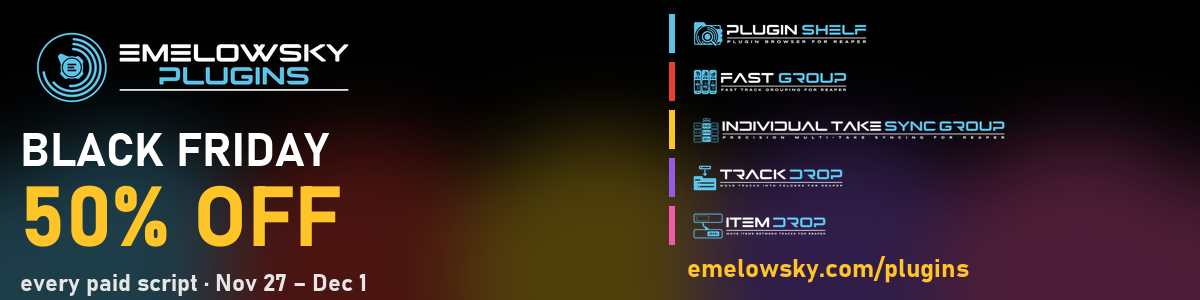
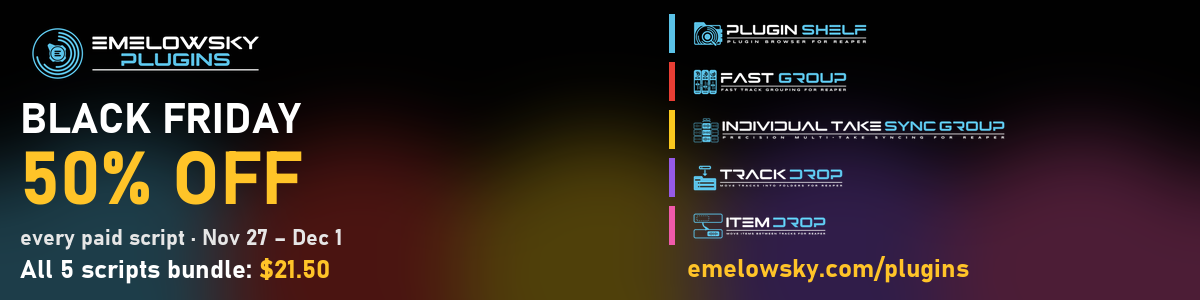
Black Friday: pakiet All Scripts Bundle ($21.50) w pasku promocji i na banerze forum

Changed region(s): [[0.0, 0.09, 0.3083, 0.84], [0.0, 0.87, 0.3083, 0.99]]

diff --git a/404.html b/404.html
@@ -24,6 +24,8 @@
 </div></header>
 <div class="promo" id="promo" data-from="2026-11-27T08:00:00Z" data-to="2026-12-02T08:00:00Z">
 <b>Black Friday:</b> every paid script is 50% off until December 1 – the price is already reduced in the shop.
+All 5 scripts in one bundle: <b>$21.50</b> instead of $54.
+<a href="https://emelowsky.gumroad.com/l/all-scripts-bundle/BLACKFRIDAY50">Get the bundle</a> ·
 <a href="https://emelowsky.gumroad.com">Go to the shop</a></div>
 <script>(function(){var b=document.getElementById("promo"),n=Date.now();
 if(n>=Date.parse(b.dataset.from)&&n<Date.parse(b.dataset.to))b.style.display="block";})();</script>

diff --git a/plugins/fast-group/index.html b/plugins/fast-group/index.html
@@ -26,6 +26,8 @@
 </div></header>
 <div class="promo" id="promo" data-from="2026-11-27T08:00:00Z" data-to="2026-12-02T08:00:00Z">
 <b>Black Friday:</b> every paid script is 50% off until December 1 – the price is already reduced in the shop.
+All 5 scripts in one bundle: <b>$21.50</b> instead of $54.
+<a href="https://emelowsky.gumroad.com/l/all-scripts-bundle/BLACKFRIDAY50">Get the bundle</a> ·
 <a href="https://emelowsky.gumroad.com">Go to the shop</a></div>
 <script>(function(){var b=document.getElementById("promo"),n=Date.now();
 if(n>=Date.parse(b.dataset.from)&&n<Date.parse(b.dataset.to))b.style.display="block";})();</script>

diff --git a/plugins/guides/index.html b/plugins/guides/index.html
@@ -24,6 +24,8 @@
 </div></header>
 <div class="promo" id="promo" data-from="2026-11-27T08:00:00Z" data-to="2026-12-02T08:00:00Z">
 <b>Black Friday:</b> every paid script is 50% off until December 1 – the price is already reduced in the shop.
+All 5 scripts in one bundle: <b>$21.50</b> instead of $54.
+<a href="https://emelowsky.gumroad.com/l/all-scripts-bundle/BLACKFRIDAY50">Get the bundle</a> ·
 <a href="https://emelowsky.gumroad.com">Go to the shop</a></div>
 <script>(function(){var b=document.getElementById("promo"),n=Date.now();
 if(n>=Date.parse(b.dataset.from)&&n<Date.parse(b.dataset.to))b.style.display="block";})();</script>

diff --git a/plugins/guides/reaper-comp-multitrack-drums-switch-takes/index.html b/plugins/guides/reaper-comp-multitrack-drums-switch-takes/index.html
@@ -26,6 +26,8 @@
 </div></header>
 <div class="promo" id="promo" data-from="2026-11-27T08:00:00Z" data-to="2026-12-02T08:00:00Z">
 <b>Black Friday:</b> every paid script is 50% off until December 1 – the price is already reduced in the shop.
+All 5 scripts in one bundle: <b>$21.50</b> instead of $54.
+<a href="https://emelowsky.gumroad.com/l/all-scripts-bundle/BLACKFRIDAY50">Get the bundle</a> ·
 <a href="https://emelowsky.gumroad.com">Go to the shop</a></div>
 <script>(function(){var b=document.getElementById("promo"),n=Date.now();
 if(n>=Date.parse(b.dataset.from)&&n<Date.parse(b.dataset.to))b.style.display="block";})();</script>

diff --git a/plugins/guides/reaper-edit-multitrack-in-sync/index.html b/plugins/guides/reaper-edit-multitrack-in-sync/index.html
@@ -26,6 +26,8 @@
 </div></header>
 <div class="promo" id="promo" data-from="2026-11-27T08:00:00Z" data-to="2026-12-02T08:00:00Z">
 <b>Black Friday:</b> every paid script is 50% off until December 1 – the price is already reduced in the shop.
+All 5 scripts in one bundle: <b>$21.50</b> instead of $54.
+<a href="https://emelowsky.gumroad.com/l/all-scripts-bundle/BLACKFRIDAY50">Get the bundle</a> ·
 <a href="https://emelowsky.gumroad.com">Go to the shop</a></div>
 <script>(function(){var b=document.getElementById("promo"),n=Date.now();
 if(n>=Date.parse(b.dataset.from)&&n<Date.parse(b.dataset.to))b.style.display="block";})();</script>

diff --git a/plugins/guides/reaper-group-tracks-in-one-click/index.html b/plugins/guides/reaper-group-tracks-in-one-click/index.html
@@ -26,6 +26,8 @@
 </div></header>
 <div class="promo" id="promo" data-from="2026-11-27T08:00:00Z" data-to="2026-12-02T08:00:00Z">
 <b>Black Friday:</b> every paid script is 50% off until December 1 – the price is already reduced in the shop.
+All 5 scripts in one bundle: <b>$21.50</b> instead of $54.
+<a href="https://emelowsky.gumroad.com/l/all-scripts-bundle/BLACKFRIDAY50">Get the bundle</a> ·
 <a href="https://emelowsky.gumroad.com">Go to the shop</a></div>
 <script>(function(){var b=document.getElementById("promo"),n=Date.now();
 if(n>=Date.parse(b.dataset.from)&&n<Date.parse(b.dataset.to))b.style.display="block";})();</script>

diff --git a/plugins/guides/reaper-insert-fx-chain-one-click/index.html b/plugins/guides/reaper-insert-fx-chain-one-click/index.html
@@ -26,6 +26,8 @@
 </div></header>
 <div class="promo" id="promo" data-from="2026-11-27T08:00:00Z" data-to="2026-12-02T08:00:00Z">
 <b>Black Friday:</b> every paid script is 50% off until December 1 – the price is already reduced in the shop.
+All 5 scripts in one bundle: <b>$21.50</b> instead of $54.
+<a href="https://emelowsky.gumroad.com/l/all-scripts-bundle/BLACKFRIDAY50">Get the bundle</a> ·
 <a href="https://emelowsky.gumroad.com">Go to the shop</a></div>
 <script>(function(){var b=document.getElementById("promo"),n=Date.now();
 if(n>=Date.parse(b.dataset.from)&&n<Date.parse(b.dataset.to))b.style.display="block";})();</script>

diff --git a/plugins/guides/reaper-link-track-and-item-selection/index.html b/plugins/guides/reaper-link-track-and-item-selection/index.html
@@ -26,6 +26,8 @@
 </div></header>
 <div class="promo" id="promo" data-from="2026-11-27T08:00:00Z" data-to="2026-12-02T08:00:00Z">
 <b>Black Friday:</b> every paid script is 50% off until December 1 – the price is already reduced in the shop.
+All 5 scripts in one bundle: <b>$21.50</b> instead of $54.
+<a href="https://emelowsky.gumroad.com/l/all-scripts-bundle/BLACKFRIDAY50">Get the bundle</a> ·
 <a href="https://emelowsky.gumroad.com">Go to the shop</a></div>
 <script>(function(){var b=document.getElementById("promo"),n=Date.now();
 if(n>=Date.parse(b.dataset.from)&&n<Date.parse(b.dataset.to))b.style.display="block";})();</script>

diff --git a/plugins/guides/reaper-mirror-pan-double-tracked-guitars/index.html b/plugins/guides/reaper-mirror-pan-double-tracked-guitars/index.html
@@ -26,6 +26,8 @@
 </div></header>
 <div class="promo" id="promo" data-from="2026-11-27T08:00:00Z" data-to="2026-12-02T08:00:00Z">
 <b>Black Friday:</b> every paid script is 50% off until December 1 – the price is already reduced in the shop.
+All 5 scripts in one bundle: <b>$21.50</b> instead of $54.
+<a href="https://emelowsky.gumroad.com/l/all-scripts-bundle/BLACKFRIDAY50">Get the bundle</a> ·
 <a href="https://emelowsky.gumroad.com">Go to the shop</a></div>
 <script>(function(){var b=document.getElementById("promo"),n=Date.now();
 if(n>=Date.parse(b.dataset.from)&&n<Date.parse(b.dataset.to))b.style.display="block";})();</script>

diff --git a/plugins/guides/reaper-move-items-to-another-track-keep-position/index.html b/plugins/guides/reaper-move-items-to-another-track-keep-position/index.html
@@ -26,6 +26,8 @@
 </div></header>
 <div class="promo" id="promo" data-from="2026-11-27T08:00:00Z" data-to="2026-12-02T08:00:00Z">
 <b>Black Friday:</b> every paid script is 50% off until December 1 – the price is already reduced in the shop.
+All 5 scripts in one bundle: <b>$21.50</b> instead of $54.
+<a href="https://emelowsky.gumroad.com/l/all-scripts-bundle/BLACKFRIDAY50">Get the bundle</a> ·
 <a href="https://emelowsky.gumroad.com">Go to the shop</a></div>
 <script>(function(){var b=document.getElementById("promo"),n=Date.now();
 if(n>=Date.parse(b.dataset.from)&&n<Date.parse(b.dataset.to))b.style.display="block";})();</script>

diff --git a/plugins/guides/reaper-move-tracks-into-mix-template/index.html b/plugins/guides/reaper-move-tracks-into-mix-template/index.html
@@ -26,6 +26,8 @@
 </div></header>
 <div class="promo" id="promo" data-from="2026-11-27T08:00:00Z" data-to="2026-12-02T08:00:00Z">
 <b>Black Friday:</b> every paid script is 50% off until December 1 – the price is already reduced in the shop.
+All 5 scripts in one bundle: <b>$21.50</b> instead of $54.
+<a href="https://emelowsky.gumroad.com/l/all-scripts-bundle/BLACKFRIDAY50">Get the bundle</a> ·
 <a href="https://emelowsky.gumroad.com">Go to the shop</a></div>
 <script>(function(){var b=document.getElementById("promo"),n=Date.now();
 if(n>=Date.parse(b.dataset.from)&&n<Date.parse(b.dataset.to))b.style.display="block";})();</script>

diff --git a/plugins/guides/reaper-plugin-keyboard-shortcut-stream-deck/index.html b/plugins/guides/reaper-plugin-keyboard-shortcut-stream-deck/index.html
@@ -26,6 +26,8 @@
 </div></header>
 <div class="promo" id="promo" data-from="2026-11-27T08:00:00Z" data-to="2026-12-02T08:00:00Z">
 <b>Black Friday:</b> every paid script is 50% off until December 1 – the price is already reduced in the shop.
+All 5 scripts in one bundle: <b>$21.50</b> instead of $54.
+<a href="https://emelowsky.gumroad.com/l/all-scripts-bundle/BLACKFRIDAY50">Get the bundle</a> ·
 <a href="https://emelowsky.gumroad.com">Go to the shop</a></div>
 <script>(function(){var b=document.getElementById("promo"),n=Date.now();
 if(n>=Date.parse(b.dataset.from)&&n<Date.parse(b.dataset.to))b.style.display="block";})();</script>
